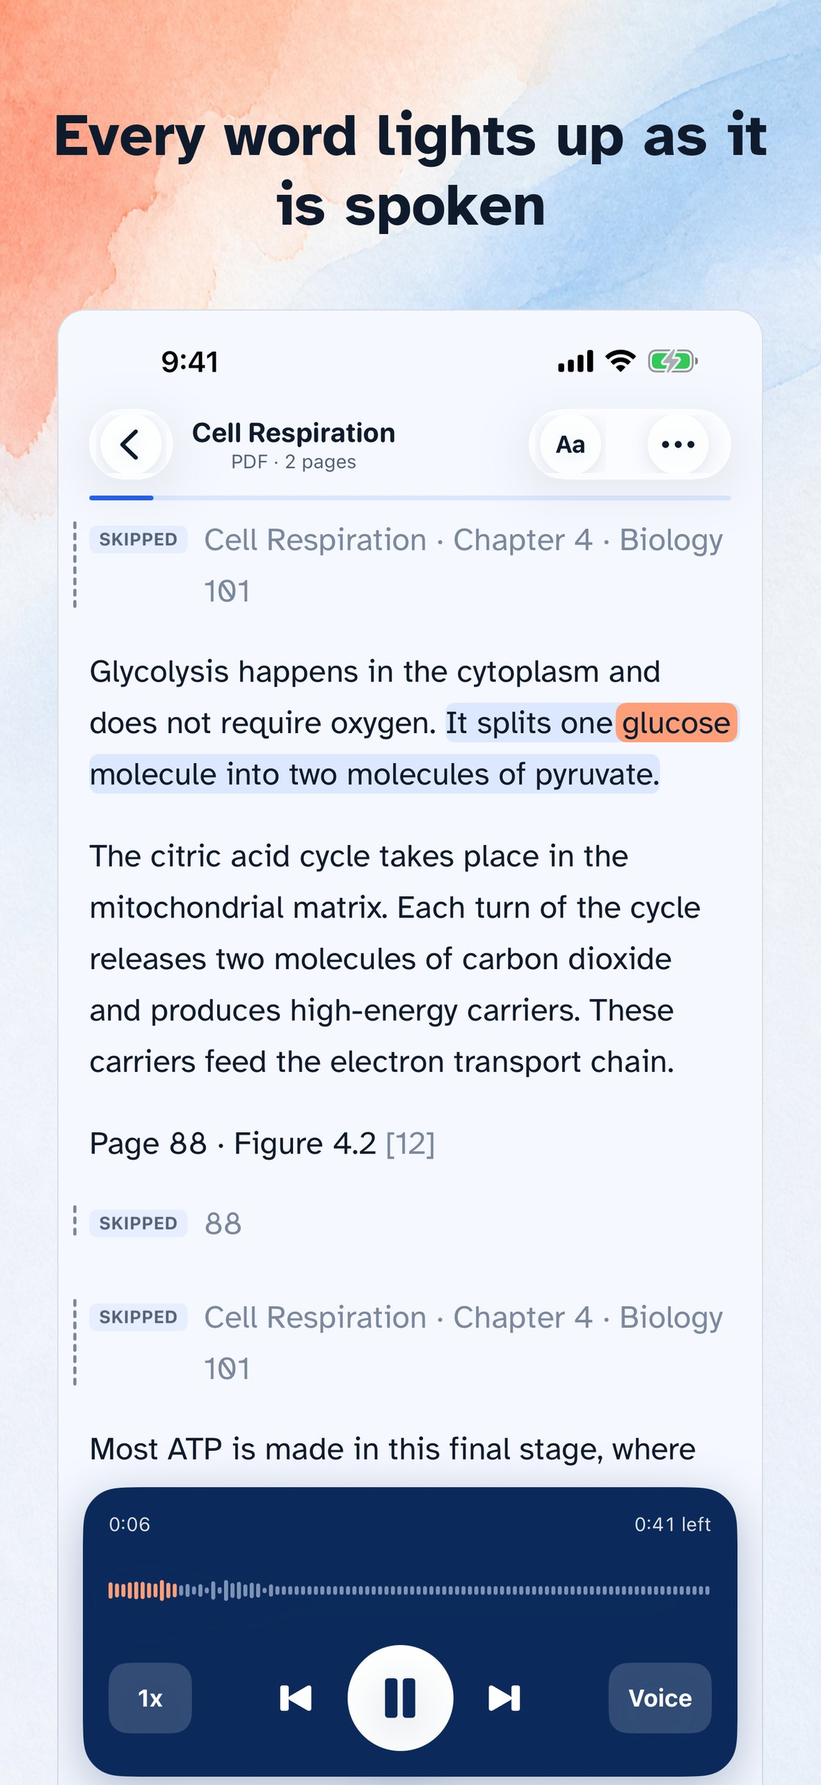
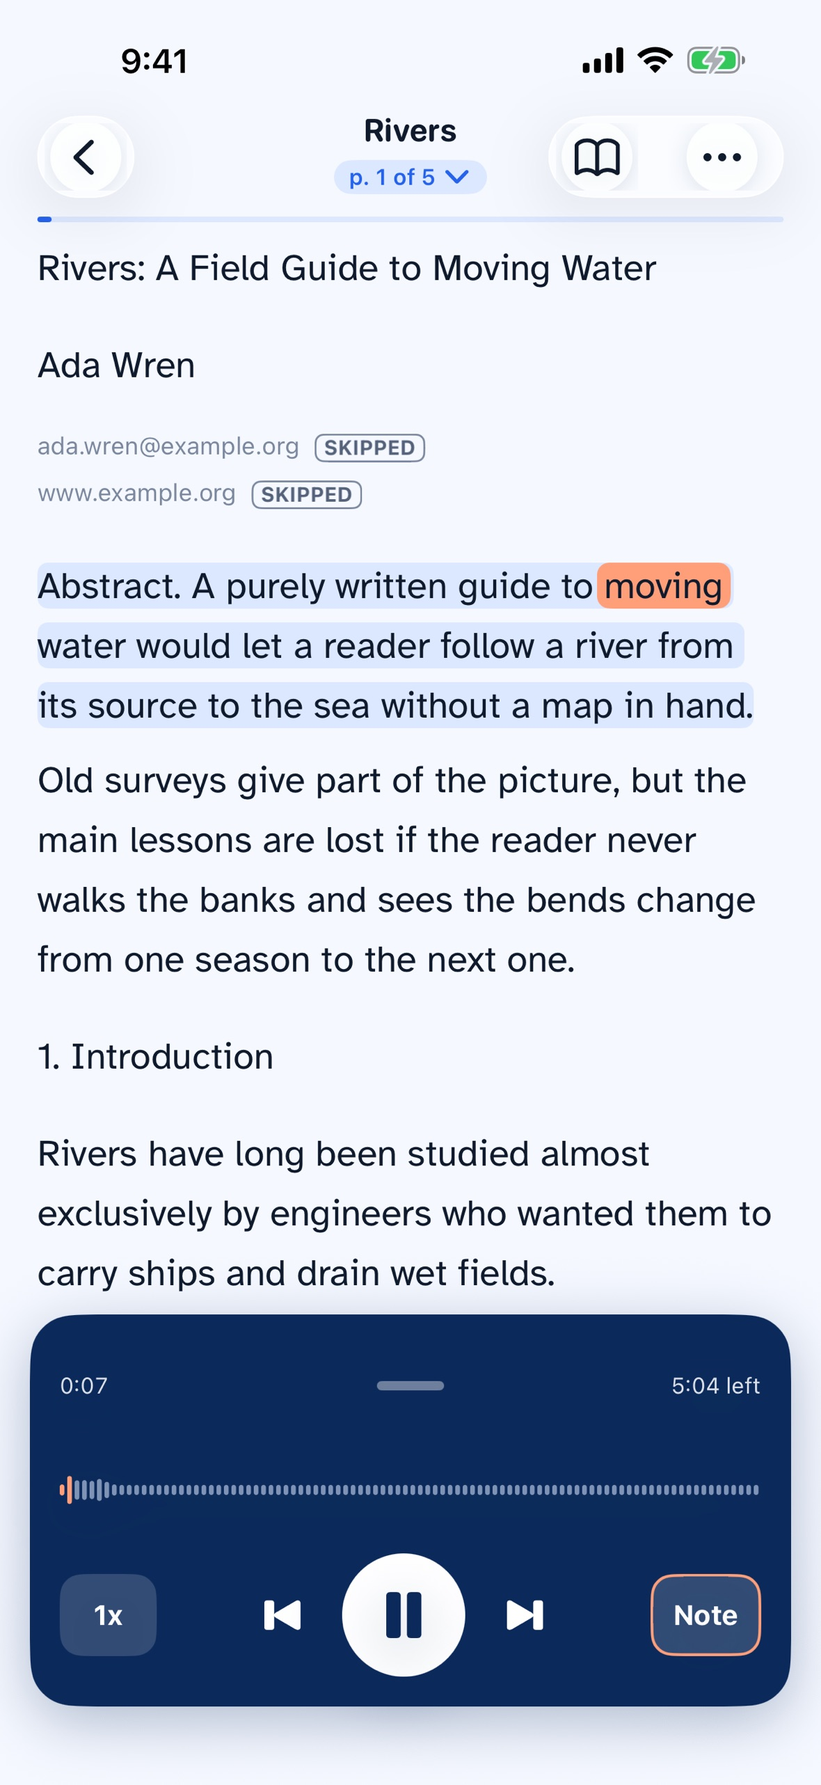
tellable: match the App Store listing, new screenshot and preview image, iCloud sync wording, staged App Store badge
Claude-Session: https://claude.ai/code/session_01Gm6rmta9iJsVnHravT89Xs

diff --git a/static/tellable/index.html b/static/tellable/index.html
@@ -4,7 +4,7 @@
 <meta charset="utf-8">
 <meta name="viewport" content="width=device-width, initial-scale=1">
 <title>Tellable: Offline Read Aloud</title>
-<meta name="description" content="Tellable reads any document aloud on your iPhone or iPad, offline, with every word highlighted as it is spoken. No account, no tracking.">
+<meta name="description" content="Hear any page. Follow every word. Tellable reads scans, PDFs, books and articles aloud on your iPhone or iPad, offline, with each word highlighted as it is spoken. No account, nothing collected, and Pro is one payment.">
 <link rel="preload" href="assets/fonts/AtkinsonHyperlegible-Regular.ttf" as="font" type="font/ttf" crossorigin>
 <link rel="stylesheet" href="styles.css">
 <link rel="icon" href="assets/favicon.ico" sizes="16x16 32x32 48x48">
@@ -13,11 +13,14 @@
 <link rel="manifest" href="assets/site.webmanifest">
 <meta name="theme-color" content="#2563EB">
 <meta property="og:title" content="Tellable: Offline Read Aloud">
-<meta property="og:description" content="Reads any document aloud, offline, with every word highlighted.">
+<meta property="og:description" content="Hear any page. Follow every word. Offline, private, no account.">
 <meta property="og:image" content="https://getmakingthings.com/tellable/assets/og-image.png">
 <meta property="og:url" content="https://getmakingthings.com/tellable/">
 <meta property="og:type" content="website">
 <meta name="twitter:card" content="summary_large_image">
+<!-- RELEASE DAY: uncomment the Smart App Banner and put the app's id in place of APP_ID (see README.md).
+<meta name="apple-itunes-app" content="app-id=APP_ID">
+-->
 <script src="assets/motion.js" defer></script>
 </head>
 <body class="home">
@@ -34,12 +37,14 @@
   <section class="hero">
     <div>
     <svg class="mark intro idle" viewBox="0 0 100 100" aria-hidden="true"><circle cx="50" cy="50" r="38" fill="url(#mk-circle)" filter="url(#mk-shadow)"/><rect class="bar b0" x="31.79" y="42.08" width="7.92" height="15.83" rx="3.96"/><g class="pulse"><rect class="bar b1" x="46.04" y="32.58" width="7.92" height="34.83" rx="3.96" fill="url(#mk-coral)"/></g><rect class="bar b2" x="60.29" y="38.92" width="7.92" height="22.17" rx="3.96"/></svg>
-    <h1>Tellable: Offline Read Aloud</h1>
-    <p class="lede">Text to Speech that works offline</p>
-    <p>Scan a page, open a PDF, or paste a link, and hear it read in a natural voice with each word highlighted as it is spoken. Everything happens on your iPhone or iPad.</p>
-    <!-- Replace with Apple's official "Download on the App Store" badge and the real app link once the app is live. -->
+    <h1>Hear any page. Follow every word.</h1>
+    <p class="lede">Tellable: Offline Read Aloud</p>
+    <p>Scan a page, open a PDF or a book, or paste a link, and hear it read in a natural voice with each word highlighted as it is spoken. It all happens on your iPhone or iPad: offline, private, and no account to make.</p>
+    <!-- RELEASE DAY: replace the "Coming soon" line below with Apple's badge (see README.md):
+    <p><a class="store-badge" href="https://apps.apple.com/app/idAPP_ID"><img src="assets/app-store-badge.svg" alt="Download on the App Store" width="180" height="60"></a></p>
+    -->
     <p><span class="soon" aria-disabled="true">Coming soon to the App Store</span></p>
-    <p class="meta">Requires iOS 18 or later. Five documents are free. Tellable Pro, a one-time purchase or a yearly subscription, adds unlimited documents, Save as audio and Up Next.</p>
+    <p class="meta">For iPhone and iPad with iOS 18 or later. Five documents are free. Tellable Pro is one payment, or a yearly plan if you prefer.</p>
     </div>
 
     <section class="demo" id="demo" aria-labelledby="demo-title">
@@ -62,10 +67,19 @@
   </section>
 
   <div class="scenes">
+    <section class="scene">
+    <div>
+    <h2>Read anything</h2>
+    <p>Point your camera at a page or pick a screenshot from Photos. Open a PDF (scanned ones too), a Word file, an EPUB or a DRM-free Kindle book, or Markdown, RTF and plain text. Paste text or a link. All in one library.</p>
+    <p>Reading in Safari? Share the page to Tellable to add it, or, with Pro, to play it next.</p>
+    </div>
+    <ul class="art chips" aria-hidden="true"><li class="scan">Scan</li><li>Photos</li><li>PDF</li><li>Word</li><li>EPUB</li><li>Kindle</li><li>Web link</li><li>Text</li><li>Paste</li></ul>
+    </section>
+
     <section class="scene clean">
     <div>
     <h2>Hear the words, not the clutter</h2>
-    <p>Clean Read skips page numbers, headers, footnote marks and citations, and shows you what it skipped.</p>
+    <p>Clean Read skips page numbers, headers and footers, footnote marks and citations. What it skipped stays on the page, dimmed, and a tap lets you hear it.</p>
     </div>
     <div class="art sheet" aria-hidden="true">
     <div class="small"><span class="skip" data-t="The River" style="--d:.6s"><span>The River</span></span><span class="skip" data-t="Chapter 3" style="--d:.6s"><span>Chapter 3</span></span></div>
@@ -74,10 +88,22 @@
     </div>
     </section>
 
+    <section class="scene tables">
+    <div>
+    <h2>Tables and pictures, too</h2>
+    <p>Tables are read row by row, each value with its header, so a number comes with its name. The Figures tab lists the pictures and tables in a document and takes you to where each one sits.</p>
+    </div>
+    <div class="art sheet" aria-hidden="true">
+    <table class="grid"><tr><th>Month</th><th>Rain</th></tr><tr class="on"><td>March</td><td class="box">42 mm</td></tr><tr><td>April</td><td>57 mm</td></tr></table>
+    <p class="small heard"><span>Heard as</span></p>
+    <p class="said">"Month, March. Rain, 42 millimetres."</p>
+    </div>
+    </section>
+
     <section class="scene offline">
     <div>
-    <h2>Works with no signal</h2>
-    <p>Eight voices are built in and live on your device. Read on a plane, in a tunnel, anywhere.</p>
+    <h2>Natural voices, built in</h2>
+    <p>Eight voices, American and British, live on your device and work from the first launch. Nothing to download, no word limits, no credits. Read on a plane, in a tunnel, anywhere.</p>
     </div>
     <div class="art sheet" aria-hidden="true">
     <div class="small status"><span>9:41</span><span class="net"><span class="signal">LTE</span><span class="plane">&#x2708;&#xFE0E;</span></span></div>
@@ -87,18 +113,28 @@
     </div>
     </section>
 
-    <section class="scene">
+    <section class="scene listen">
     <div>
-    <h2>Scan it, open it, paste it</h2>
-    <p>Paper pages, PDFs, Word files, web pages and plain text, all in one library.</p>
+    <h2>Listen your way</h2>
+    <p>Choose a speed from 0.5x to 3x. Play and pause from the Lock Screen, and set a sleep timer for bed. Bookmark a sentence or write a note on it, then find it again in a tap.</p>
+    <p>With Pro, line up chapters and articles in Up Next, save a document as audio to take anywhere, and play your notes back or share them as audio.</p>
     </div>
-    <ul class="art chips" aria-hidden="true"><li>PDF</li><li class="scan">Scan</li><li>Photos</li><li>Word</li><li>Text</li><li>Paste</li></ul>
+    <ul class="art pills" aria-hidden="true"><li>0.5x to 3x</li><li>Lock Screen</li><li>Sleep timer</li><li>Bookmarks</li><li>Notes</li><li>Up Next</li><li>Save as audio</li><li>Play notes</li></ul>
+    </section>
+
+    <section class="scene private">
+    <div>
+    <h2>Private by design</h2>
+    <p>Tellable collects no data, and there is no account. It goes online only to fetch a link you paste.</p>
+    <p>Want your library on your iPad too? Turn on iCloud sync. It is off until you choose it, and it uses your own private iCloud, which we cannot see.</p>
+    </div>
+    <ul class="art rows" aria-hidden="true"><li>Data collected<b>None</b></li><li>Account<b>None</b></li><li>iCloud sync<span class="switch"></span></li></ul>
     </section>
 
     <section class="scene">
     <div>
-    <h2>Five free. Then your choice.</h2>
-    <p>Five documents are free, with every voice and Clean Read. Tellable Pro, a one-time purchase or a yearly subscription, adds unlimited documents, Save as audio and Up Next. No ads, no account.</p>
+    <h2>Five free. Then pay once.</h2>
+    <p>Five documents are free for good, with every voice and Clean Read. Tellable Pro unlocks unlimited documents, Up Next, Save as audio and playing your notes. Buy it once, or choose a yearly plan. No free trial, so no surprise charge; Tellable can remind you three days before a yearly plan renews. Family Sharing included. No ads.</p>
     </div>
     <div class="art plans" aria-hidden="true">
     <svg class="mark" viewBox="0 0 100 100"><circle cx="50" cy="50" r="38" fill="url(#mk-circle)"/><rect class="bar b0" x="31.79" y="42.08" width="7.92" height="15.83" rx="3.96"/><rect class="bar b1" x="46.04" y="32.58" width="7.92" height="34.83" rx="3.96" fill="url(#mk-coral)"/><rect class="bar b2" x="60.29" y="38.92" width="7.92" height="22.17" rx="3.96"/></svg>
@@ -118,6 +154,9 @@
   <section class="closing">
     <img class="mark" src="assets/icon-192.png" alt="" width="72" height="72" loading="lazy">
     <h2>Hear any page. Offline.</h2>
+    <!-- RELEASE DAY: replace the "Coming soon" line below with Apple's badge (see README.md):
+    <p><a class="store-badge" href="https://apps.apple.com/app/idAPP_ID"><img src="assets/app-store-badge.svg" alt="Download on the App Store" width="180" height="60"></a></p>
+    -->
     <p><span class="soon" aria-disabled="true">Coming soon to the App Store</span></p>
   </section>
 </main>

diff --git a/static/tellable/support.html b/static/tellable/support.html
@@ -17,6 +17,9 @@
 <meta property="og:url" content="https://getmakingthings.com/tellable/support.html">
 <meta property="og:type" content="website">
 <meta name="twitter:card" content="summary_large_image">
+<!-- RELEASE DAY: uncomment the Smart App Banner and put the app's id in place of APP_ID (see README.md).
+<meta name="apple-itunes-app" content="app-id=APP_ID">
+-->
 <script src="assets/motion.js" defer></script>
 </head>
 <body>
@@ -38,6 +41,7 @@
   <ul class="faq-nav" aria-label="Questions">
     <li><a href="#files">Where files go</a></li>
     <li><a href="#voices">Voices</a></li>
+    <li><a href="#sync">iCloud sync</a></li>
     <li><a href="#ios">iOS 18 and up</a></li>
     <li><a href="#pro">Tellable Pro</a></li>
     <li><a href="#restore">Restoring purchases</a></li>
@@ -45,16 +49,19 @@
   </ul>
   <dl>
     <dt id="files">Where do my files go?</dt>
-    <dd>Everything you scan, import or paste is copied into Tellable's own storage on your device and protected by the device's file encryption. It is not uploaded anywhere, and it does not appear in the Files app. The original file you imported is untouched. To remove a document, delete it from the library; deleting the app removes everything.</dd>
+    <dd>Everything you scan, import or paste is copied into Tellable's own storage on your device and protected by the device's file encryption. It is not uploaded anywhere (unless you turn on iCloud sync, below), and it does not appear in the Files app. The original file you imported is untouched. To remove a document, delete it from the library; deleting the app removes everything.</dd>
 
     <dt id="voices">Which voices does Tellable have?</dt>
-    <dd>Eight voices are built in: Heart, Bella, Nicole, Emma (British), Michael, Fenrir, Terri and Rich. There is nothing to download, and every voice works offline from the first launch. Choose one in the player from Speed &amp; Voice (tap the speed button), or from Voices in Settings.</dd>
+    <dd>Eight voices, American and British, are built in: Heart, Bella, Nicole, Emma (British), Michael, Fenrir, Terri and Rich. There is nothing to download, and every voice works offline from the first launch. Choose one in the player from Speed &amp; Voice (tap the speed button), or from Voices in Settings.</dd>
+
+    <dt id="sync">Can I use Tellable on my iPhone and my iPad?</dt>
+    <dd>Yes. Turn on iCloud sync in Tellable's Settings on each device signed in to the same iCloud account. Your documents, your place in each one, your notes, collections and Up Next stay the same on every device. Sync is off until you turn it on, it takes effect the next time Tellable opens, and it uses your own private iCloud storage: nothing is sent to us, and we cannot see it. Audio is made again on each device.</dd>
 
     <dt id="ios">Why does Tellable need iOS 18 or later?</dt>
-    <dd>Tellable runs part of its speech engine as an extension that iOS keeps separate from the app, and it relies on text recognition and audio features that arrived with iOS 18. Older versions of iOS do not have them, so the app cannot run there. On iOS 26 and later, scanning also uses Apple's newer document recognition, which reads tables and lists more accurately.</dd>
+    <dd>Two of Tellable's voices run in an extension that iOS keeps separate from the app, and it relies on text recognition and audio features that arrived with iOS 18. Older versions of iOS do not have them, so the app cannot run there. On iOS 26 and later, scanning also uses Apple's newer document recognition, which reads tables and lists more accurately.</dd>
 
     <dt id="pro">What does Tellable Pro add?</dt>
-    <dd>Five documents are free, for as long as you like, with every voice and Clean Read. Tellable Pro adds unlimited documents, plus two Pro features: Save as audio (an audio file of a chapter or a whole document) and Up Next (a queue of documents and chapters to play in order). Pro is a one-time purchase or a yearly subscription, at the price shown in the App Store.</dd>
+    <dd>Five documents are free, for as long as you like, with every voice and Clean Read. Tellable Pro adds unlimited documents, plus Up Next (a queue of documents and chapters to play in order), Save as audio (an audio file of a chapter or a whole document) and Play notes (hear your notes in a row, and share them as audio). Pro is a one-time purchase or a yearly subscription, at the price shown in the App Store. There is no free trial, and Family Sharing is included.</dd>
 
     <dt id="restore">How do I restore my purchase?</dt>
     <dd>Make sure you are signed in to the same Apple Account you bought Tellable Pro with, then open Settings in Tellable and tap Restore purchases. The unlock is tied to your Apple Account, so it follows you to a new device. If a family member bought Pro and shares it with you, Restore purchases picks that up too.</dd>

diff --git a/static/tellable/privacy.html b/static/tellable/privacy.html
@@ -17,6 +17,9 @@
 <meta property="og:url" content="https://getmakingthings.com/tellable/privacy.html">
 <meta property="og:type" content="website">
 <meta name="twitter:card" content="summary_large_image">
+<!-- RELEASE DAY: uncomment the Smart App Banner and put the app's id in place of APP_ID (see README.md).
+<meta name="apple-itunes-app" content="app-id=APP_ID">
+-->
 <script src="assets/motion.js" defer></script>
 </head>
 <body>
@@ -31,7 +34,7 @@
 </header>
 <main>
   <h1>Privacy Policy</h1>
-  <p class="meta">Effective 9 October 2026</p>
+  <p class="meta">Effective 14 October 2026</p>
   <p class="lede">Tellable collects no data. Nothing you read, scan or import is sent to us, and there is no account to create.</p>
 
   <h2>What Tellable does not do</h2>
@@ -39,18 +42,20 @@
     <li>No accounts. You never sign in.</li>
     <li>No analytics and no crash reporting services.</li>
     <li>No tracking, no advertising identifier, no ads.</li>
-    <li>No third-party software kits that send data anywhere. The open-source parts of the app, including the voices and the speech engines, run on your device.</li>
+    <li>No third-party software kits that send data anywhere. The open-source parts of the app, including the voices and the speech software, run on your device.</li>
     <li>Nothing is sent to Tellable. We have no server that receives data about you.</li>
   </ul>
   <p>The App Store privacy label for Tellable reads "Data Not Collected".</p>
 
   <h2>Where your documents live</h2>
-  <p>Documents you scan, import or paste, your reading position, your settings, and the audio Tellable renders so it can play without delay are all stored inside the app on your device. They are protected by the device's file encryption. Deleting a document in Tellable removes it, and deleting the app removes everything.</p>
+  <p>Documents you scan, import or paste, your reading position, your settings, and the audio Tellable renders so it can play without delay are all stored inside the app on your device. They are protected by the device's file encryption. Deleting a document in Tellable removes it, and deleting the app removes everything, except a copy you chose to keep in iCloud (below).</p>
 
   <h2>When Tellable uses the network</h2>
-  <p>Tellable works offline. Its voices are built in, so nothing is downloaded to read aloud. The app itself uses the network in one case, which you choose.</p>
+  <p>Tellable works offline. Its voices are built in, so nothing is downloaded to read aloud. The app itself uses the network only in the cases below, and each one is your choice.</p>
   <h3>Reading a web link</h3>
   <p>If you paste a link, Tellable fetches that page once, on your request, with the pictures in it, so it can read it to you. While you wait, Tellable also loads the page's style sheets, fonts and pictures to show you a preview of the page as it looks in a browser. No script on the page runs, no cookies are kept or sent, nothing else on the page is loaded, and the preview is deleted as soon as the article is ready. To find the article itself, Tellable runs Mozilla's Readability (the reader view of Firefox) on your device, inside that same sealed view; it ships with the app and sends nothing anywhere. Only the article's own pictures are fetched. Tellable does not fetch the page again unless you ask. A page you share from Safari comes as Safari shows it, and Tellable makes no request for it or its pictures; a page too large for Safari to hand over (over 5 MB) comes as its link instead. A link shared from another app, or that large a page, is fetched by Tellable and read the same way, with only the article's own pictures and no preview.</p>
+  <h3>iCloud sync, if you turn it on</h3>
+  <p>iCloud sync is off until you turn it on in Tellable's Settings. With it on, your documents, your place in each one, your notes, collections, Up Next and a few settings are kept in your own private iCloud storage, through Apple's iCloud, so they appear on your other devices signed in to the same account. That storage belongs to your Apple Account and counts against your iCloud plan. We cannot read it, and nothing is sent to us. Turn sync off and everything stays on this device, and the copy in your iCloud stays there, yours to keep or delete. The App Store privacy label stays "Data Not Collected" with sync on, because the data never reaches us.</p>
   <h3>Apple's services</h3>
   <p>Purchases go through Apple's App Store, which uses the network on Apple's side (see Purchases below). The renewal reminder for the yearly plan is a notification scheduled on your device; no server sends it.</p>
 

diff --git a/static/tellable/styles.css b/static/tellable/styles.css
@@ -185,3 +185,25 @@ header{justify-content:space-between;flex-wrap:wrap}
 header nav{display:flex;flex-wrap:wrap;gap:0 .25rem}
 header nav a{font:700 1rem var(--read);color:var(--ink-secondary);padding:0 .5rem}
 .soon{display:inline-block;margin:15px 0;padding:.85rem 1.25rem;border-radius:14px;background:var(--surface);border:1px solid var(--line);font-weight:700;color:var(--ink-secondary)}
+/* Story 185: the extra scenes (tables, listen, private), from the same tokens */
+.scene h2~p{color:var(--ink-secondary)}
+.scene h2~p+p{margin-top:.75em}
+.grid{width:100%;border-collapse:separate;border-spacing:0;font:1.0625rem/1.6 var(--read)}
+.grid th,.grid td{text-align:left;padding:.35rem .6rem;border-bottom:1px solid var(--line)}
+.grid th{font:800 .875rem var(--round);color:var(--ink-secondary)}
+.grid .on td{background:var(--sky-tint)}
+.grid .box{box-shadow:inset 0 0 0 2px var(--coral);border-radius:6px}
+.heard{margin:1rem 0 .25rem;color:var(--ink-secondary)}
+.said{margin:0;font:1.0625rem/1.6 var(--read)}
+.listen .pills{margin:0;justify-content:center}
+.listen .pills li{font-size:1rem;padding:.4rem 1rem}
+.rows{display:grid;gap:.6rem}
+.rows li{display:flex;justify-content:space-between;align-items:center;min-height:3.5rem;padding:0 1.1rem;border-radius:18px;background:var(--surface);border:1px solid var(--line);font:800 1.0625rem var(--round)}
+.rows b{color:var(--ink-secondary)}
+.switch{width:46px;height:28px;border-radius:14px;background:var(--line);position:relative}
+.switch::after{content:"";position:absolute;top:3px;left:3px;width:22px;height:22px;border-radius:50%;background:#FFF;box-shadow:0 1px 3px rgba(0,8,20,.25)}
+.motion{
+.listen .pills li{--r:.3s}.listen .pills li+li{--r:.36s}.listen .pills li+li+li{--r:.42s}
+.rows li{animation:rise 400ms var(--out) .3s both}.rows li+li{animation-delay:.38s}.rows li+li+li{animation-delay:.46s}
+.grid .box{animation:pop 300ms var(--out) .8s both}
+}

diff --git a/static/tellable/terms.html b/static/tellable/terms.html
@@ -17,6 +17,9 @@
 <meta property="og:url" content="https://getmakingthings.com/tellable/terms.html">
 <meta property="og:type" content="website">
 <meta name="twitter:card" content="summary_large_image">
+<!-- RELEASE DAY: uncomment the Smart App Banner and put the app's id in place of APP_ID (see README.md).
+<meta name="apple-itunes-app" content="app-id=APP_ID">
+-->
 <script src="assets/motion.js" defer></script>
 </head>
 <body>
@@ -54,7 +57,7 @@
   <p>All payments go through Apple, so refunds are requested from Apple, under Apple's refund policy. Tellable cannot issue refunds itself.</p>
 
   <h2>Your content</h2>
-  <p>Documents you scan, import or paste are yours. Tellable does not receive them, store them anywhere but on your device, or claim any rights to them. You are responsible for having the right to read and convert the material you bring into the app.</p>
+  <p>Documents you scan, import or paste are yours. Tellable does not receive them or claim any rights to them. They are stored on your device and, only if you turn on iCloud sync, in your own private iCloud storage. You are responsible for having the right to read and convert the material you bring into the app.</p>
 
   <h2>Licensing</h2>
   <p>Two of Tellable's voices run in a speech engine that sits in a separate extension inside the app. That extension is free software under the GNU General Public License, version 3 (GPL-3.0). Its complete source code is published at <a href="https://github.com/getmakingthings/tellable-speech">github.com/getmakingthings/tellable-speech</a>, and you may use, study, change and share it under that licence. The rest of the app is proprietary and remains the property of Making Things.</p>

diff --git a/static/tellable/404.html b/static/tellable/404.html
@@ -19,6 +19,9 @@
 <meta property="og:url" content="https://getmakingthings.com/tellable/404.html">
 <meta property="og:type" content="website">
 <meta name="twitter:card" content="summary_large_image">
+<!-- RELEASE DAY: uncomment the Smart App Banner and put the app's id in place of APP_ID (see README.md).
+<meta name="apple-itunes-app" content="app-id=APP_ID">
+-->
 <script src="assets/motion.js" defer></script>
 </head>
 <body>

diff --git a/static/tellable/README.md b/static/tellable/README.md
@@ -1,0 +1,16 @@
+# Tellable's pages
+
+Served at https://www.getmakingthings.com/tellable/. The app links `support.html`, `privacy.html` and `terms.html`, so keep those names.
+
+Rules for every page: no em dash in the text, no price figure (prices come from the App Store only), and nothing the shipping app does not do.
+
+## Release day: switch to the App Store
+
+The app id (a number such as 6740000000) is on the app's page in App Store Connect, under App Information, Apple ID.
+
+1. **Smart App Banner.** In the `<head>` of every page (`index.html`, `support.html`, `privacy.html`, `terms.html`, `404.html`) there is a comment that starts `RELEASE DAY`. Take the `<meta name="apple-itunes-app" ...>` line out of the comment and put the app id in place of `APP_ID`.
+2. **The badge.** `index.html` has two `RELEASE DAY` comments, in the hero and in the closing box. In each, uncomment the badge link, put the app id in place of `APP_ID`, and delete the `Coming soon to the App Store` line under it.
+
+The badge image is not in this folder on purpose. Download Apple's official "Download on the App Store" badge (black, US English, SVG) from Apple's marketing tools at https://toolbox.marketingtools.apple.com/en-us/app-store/ and save it, unchanged, as `assets/app-store-badge.svg`. Apple's guidelines do not allow redrawing or altering it. The `.store-badge` style in `styles.css` already sizes it (180 x 60 with the required clear space).
+
+To find every place: `grep -rn "RELEASE DAY\|APP_ID" .`
